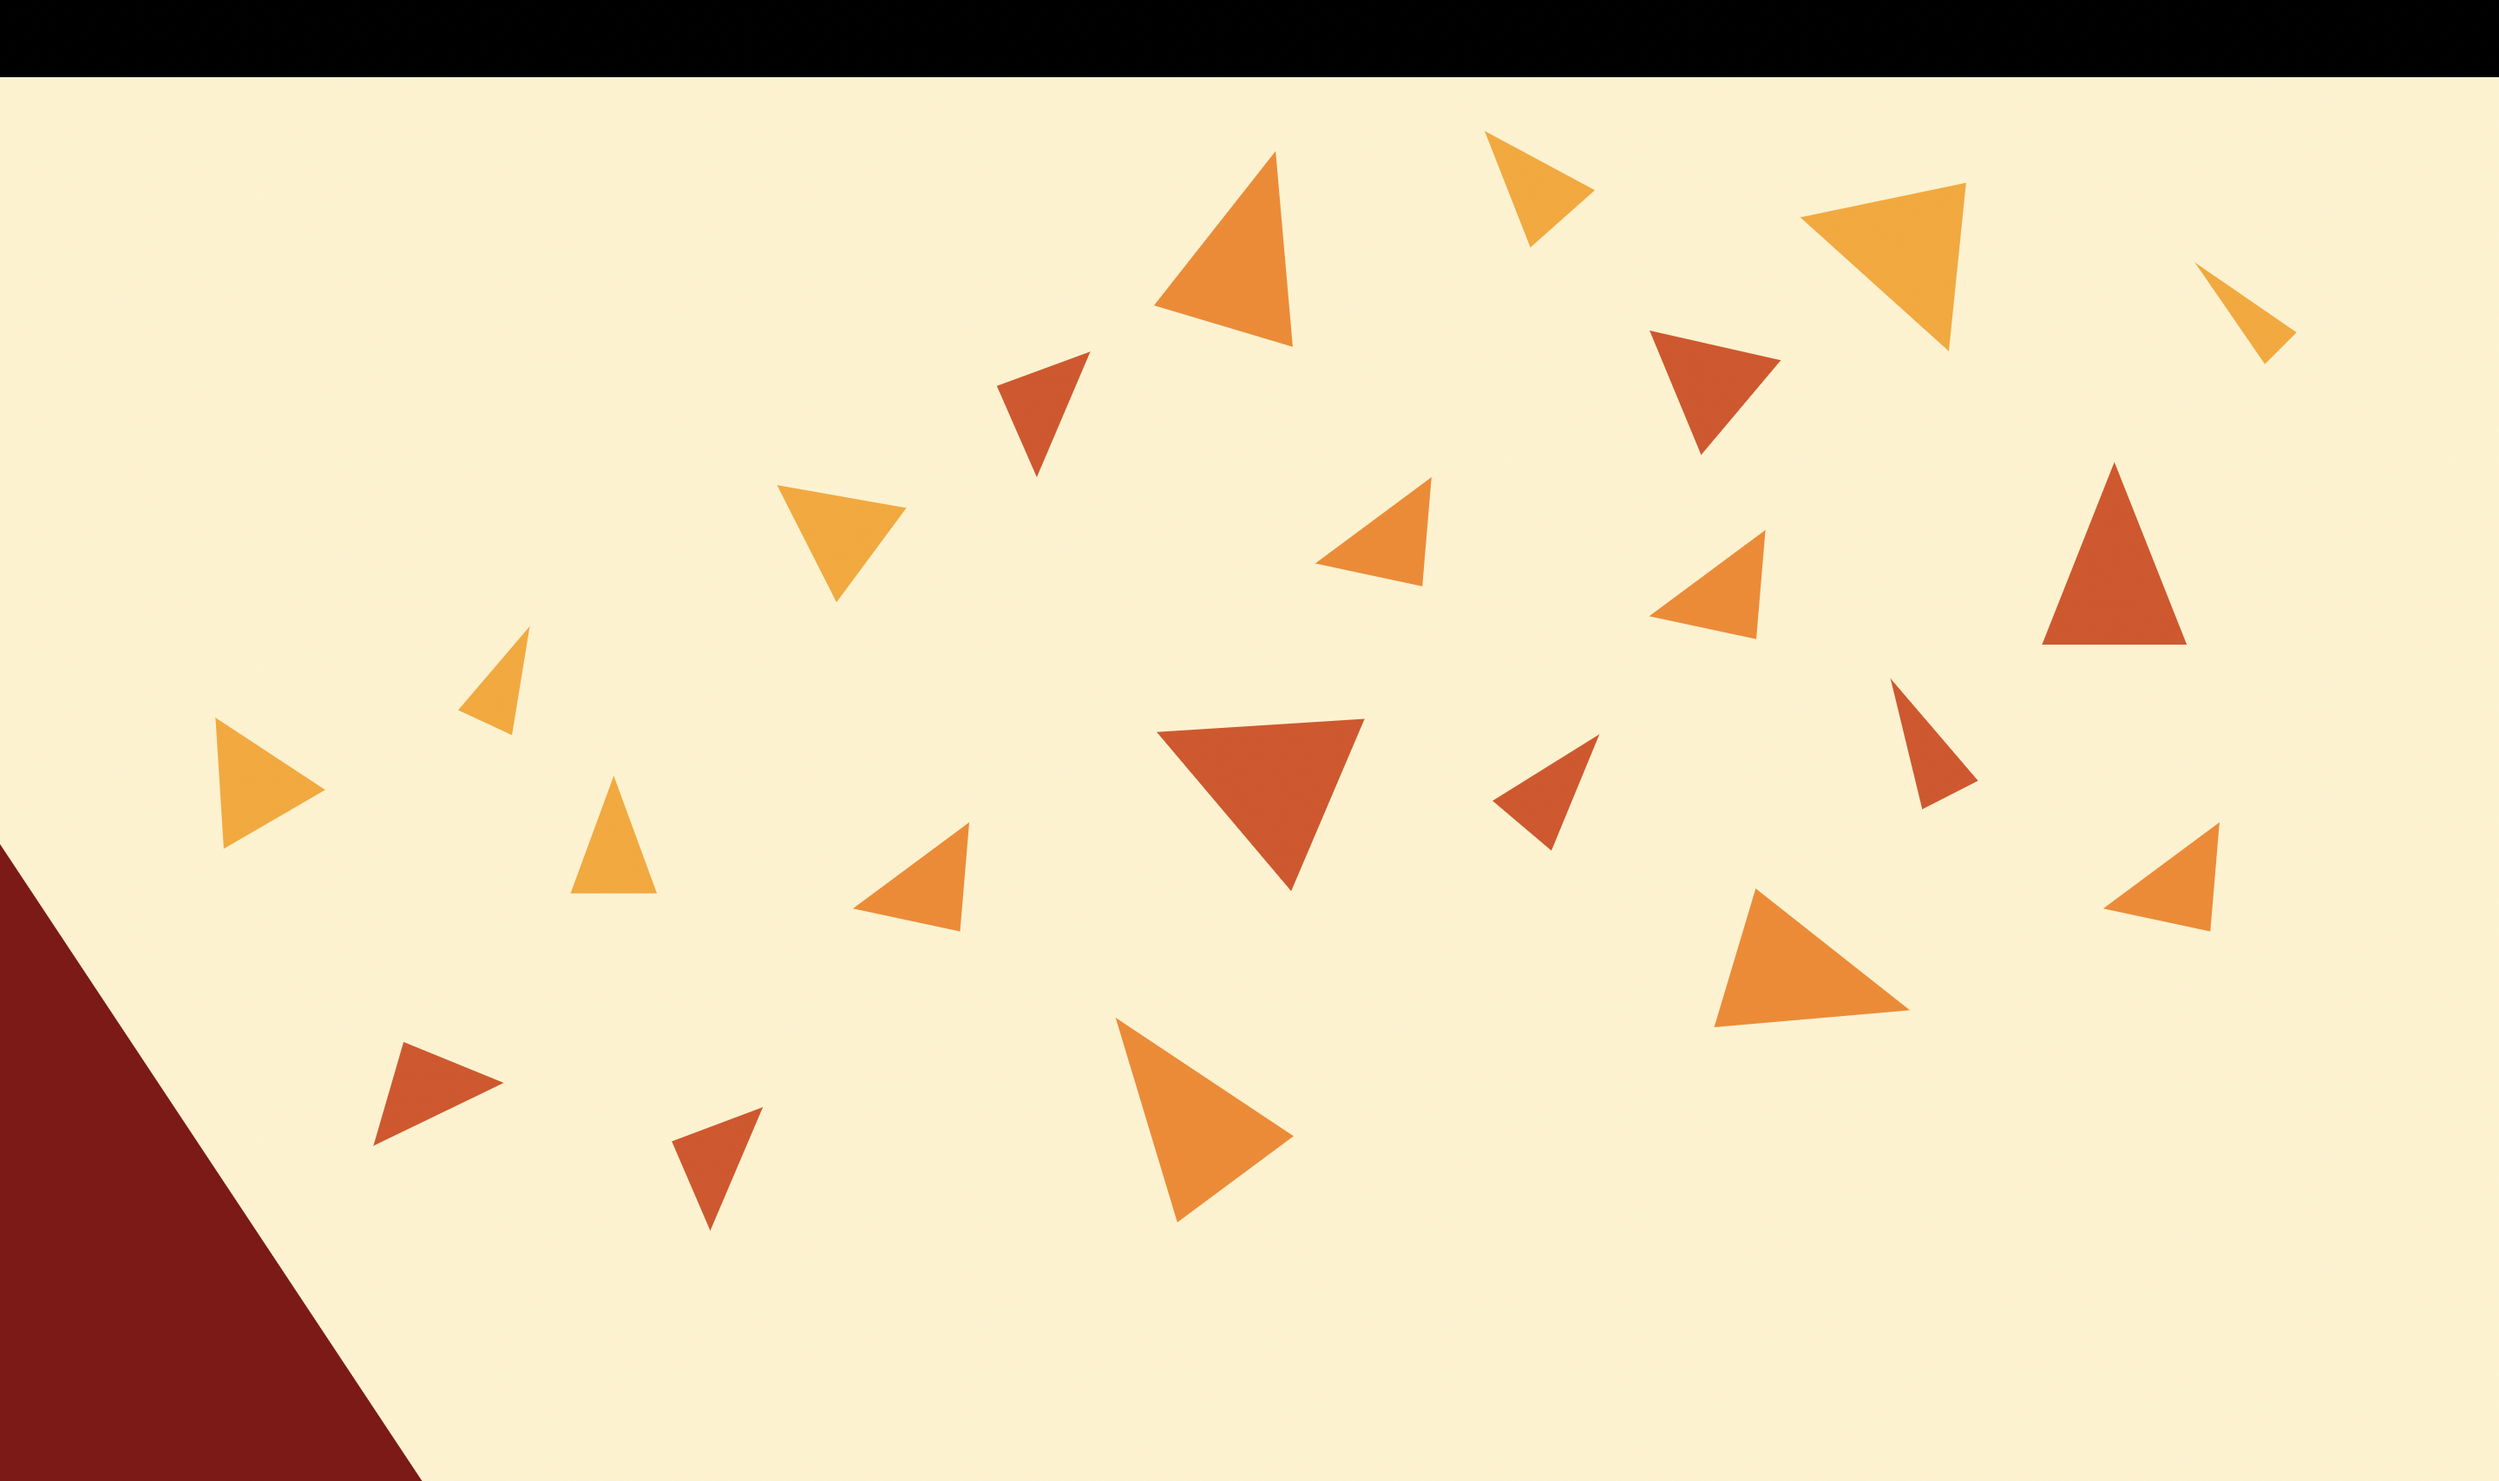
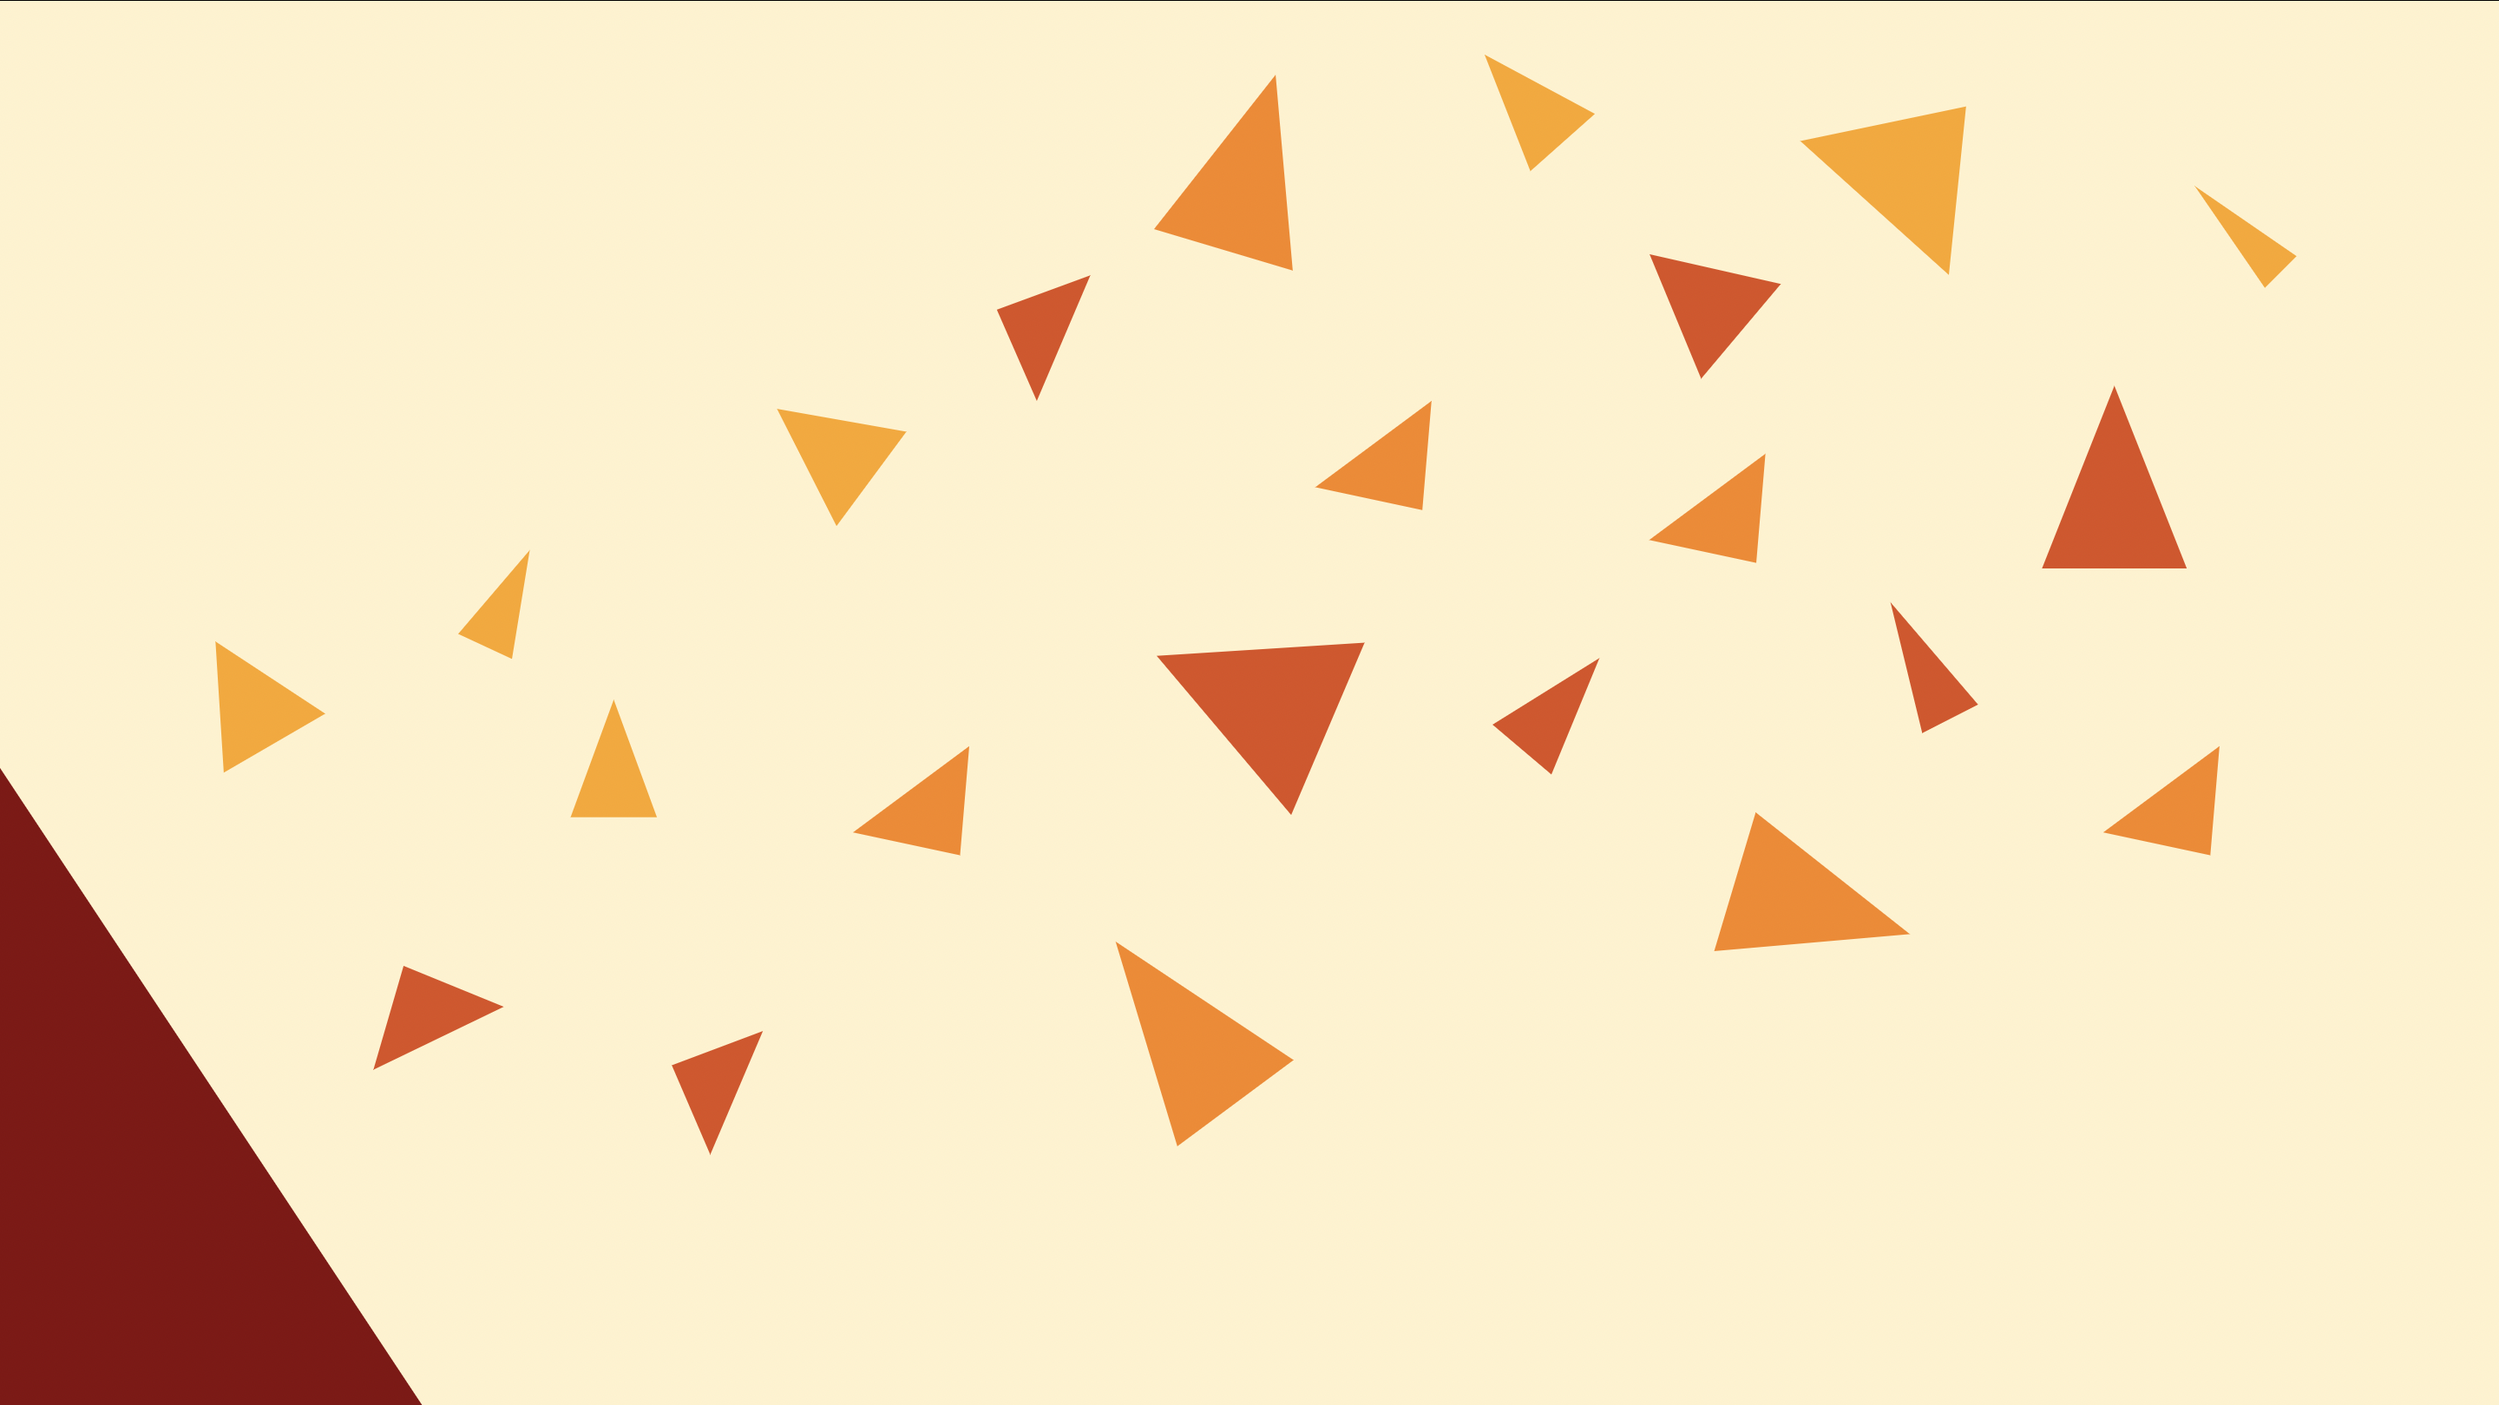
add background, changed layout, and color

diff --git a/estore-ui/app/src/app/buyer-snack-detail/buyer-snack-detail.component.css b/estore-ui/app/src/app/buyer-snack-detail/buyer-snack-detail.component.css
@@ -1,36 +1,89 @@
-.list {
-    list-style: none;
-    padding: 10px;
-    border: 1px solid;
-    border-radius: 5px;
-    margin-bottom: 8px;
-    background-color: aliceblue;
+body {
+    background-color: #efeaea;
+    background-image: url('./../../assets/doritos_exploding.png');
+    background-size: cover;
 }
 
 .total {
-    background-color: lightblue;
-    padding: 5px;
+    background-color: transparent;
+    padding: 50px;
 }
 
-.id {
-    font-size: 18px;
-}
-
-.input {
-    width: 100%;
-    padding: 12px 20px;
-    margin: 8px 0;
-    box-sizing: border-box;
-}
-
-.label {
-    padding-bottom: 10px;
-    font-size: 18px;
-}
-
-
-.buttons {
+h2 {
     text-align: center;
+    padding-bottom: 30px;
+}
+
+.Snack-grid {
+    display: grid;
+    grid-template-columns: repeat(2, 1fr);
+    justify-content: space-evenly;
+}
+
+.image {
+    position: relative;
+    left:100px;
+    width:100%;
+    height:100%;
+    max-width: 400px;
+    height: 500px;
+    background-color: white;
+    column-gap: normal;
+}
+
+.snack-info {
+    margin:20px;
+    height: 500px;
+    background-color:transparent;
+    display: flex;
+    flex-direction: column;
+    justify-content: space-evenly
+}
+
+.list {
+    list-style: none;
+    padding: 40px;
+    border-radius: 5px;
+    margin-bottom: 8px;
+    background-color: rgb(187, 148, 130);
+    color: #3c1414;
+}
+
+.snack-name {
+    font-weight: bold;
+    font-size: 50px;
+    color: #3c1414;
+}
+
+.snack-description {
+    font-size: 20px;
+}
+
+.snack-quantity {
+    font-size: 15px;
+}
+
+.snack-price {
+    font-size: 30px;
+    color: white;
+}
+
+.buttons{
+    text-align: center;
+}
+
+button {
+    background-color: #3c1414;
+    padding: 12px;
+    color: #e4c8c8;
+    font-size: 1.3rem;
+    border: 0;
+    border-radius: 2.1rem;
+    font-weight: bold;
+}
+
+button:hover {
+    background-color: rgb(187, 148, 130);
 }
 
 .back {
@@ -43,12 +96,4 @@
     padding: 10px;
 }
 
-.a { 
-    padding: 1rem;
-    text-decoration: none;
-    margin-top: 10px;
-    display: inline-block;
-    background-color: #e8e8e8;
-    color: #3d3d3d;
-    border-radius: 4px;
- }
+

diff --git a/estore-ui/app/src/app/buyer-snack-detail/buyer-snack-detail.component.html b/estore-ui/app/src/app/buyer-snack-detail/buyer-snack-detail.component.html
@@ -1,28 +1,40 @@
-<a routerLink="/shopping_cart">Shopping Cart</a>
+<body>
 
-<div class="total" *ngIf="snack">
+    <div class="total" *ngIf="snack">
 
-    <h2>{{snack.name}} Details </h2>
-    <div class="list">
-        <li>
-            <span class="id">id: </span>{{snack.id}}
-        </li>
-        <li>
-            <span class="snack-name"> Snack Name: </span>{{snack.name}}
-        </li>
-        <li>
-            <span class="snack-description"> Description: </span>{{snack.description}}
-        </li>
-        <li>
-            <span class="snack-quantity"> Quantity: </span>{{snack.quantity}}
-        </li>
-        <li>
-            <span class="snack-price"> Price: </span>{{snack.price}}
-        </li>
+        <div class="Snack-grid">
+
+            <!-- <img> image of the snakc will be placed here -->
+            <div class="image"></div>
+
+            <div class="snack-info">
+
+                <div class="list">
+                    <li>
+                        <span class="snack-name">{{snack.name}}</span>
+                    </li>
+                    <br>
+                    <li>
+                        <span class="snack-description">{{snack.description}}</span>
+                    </li>
+                    <br>
+                    <li>
+                        <span class="snack-quantity"> Quantity: {{snack.quantity}}</span>
+                    </li>
+                    <br>
+                    <li>
+                        <span class="snack-price">${{snack.price}}</span>
+                    </li>
+                </div>
+                <div class="buttons">
+                    <button class="back" type="button" (click)="goBack()">Go Back</button>
+                    <button class="addToCart" type="button" (click)="addCart()">Add To Cart</button>
+                </div>
+
+            </div>
+
+        </div>
+
     </div>
-    <div class="buttons">
-        <button class="back" type="button" (click)="goBack()">Go Back</button>
-        <button class="addToCart" type="button" (click)="addCart()">Add To Cart</button>
-    </div>
 
-</div>
+</body>
